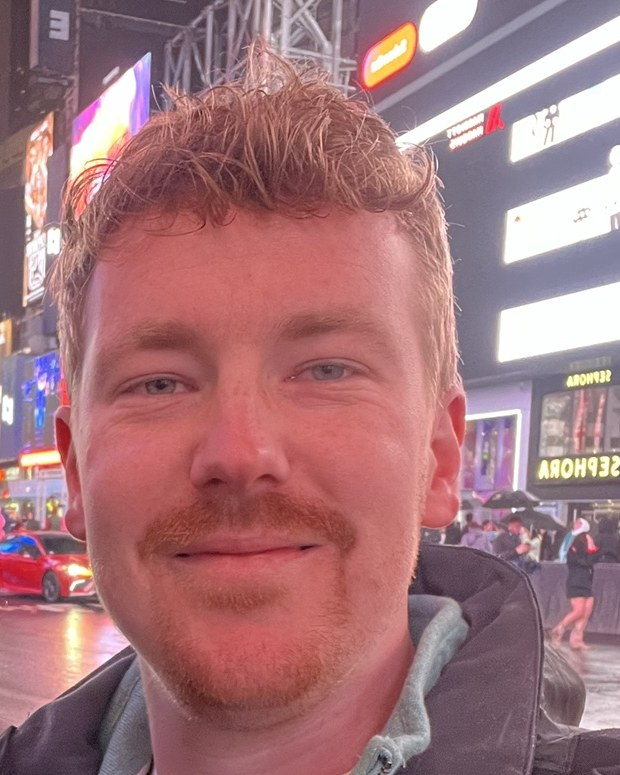
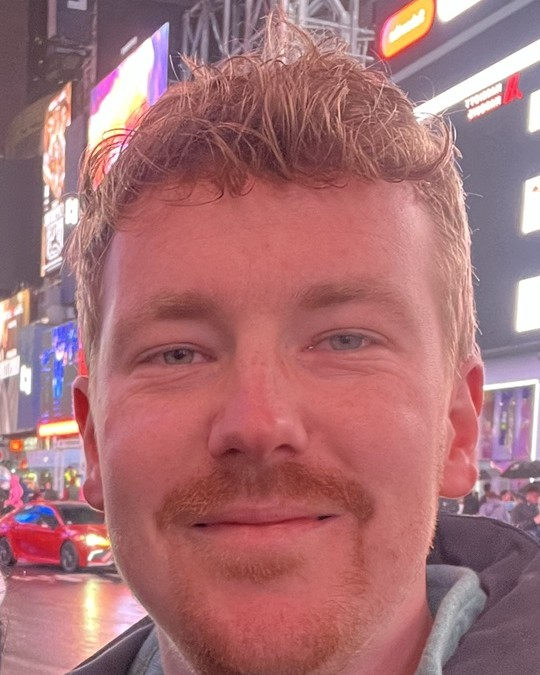
Centre photo crop; small portrait instead of circle on phones
Claude-Session: https://claude.ai/code/session_01TqzmADwAUMjqVKya5mudJi

diff --git a/index.html b/index.html
@@ -55,7 +55,7 @@
 
     <!-- INTRO -->
     <section id="top" class="wrap intro">
-      <img class="intro-photo" src="images/sam.jpg" alt="Samuel Heel" width="740" height="925" />
+      <img class="intro-photo" src="images/sam.jpg" alt="Samuel Heel" width="540" height="675" />
       <h1 style="margin-top:0">I find where the value is in the data, then <em>build</em> the product that captures it.</h1>
       <p class="intro-story">I'm a Senior Product Owner at Angstrom Sports (Entain), where I own the risk and trading automation portfolio behind Entain and BetMGM's US sports markets. Before that I built the company's first in-house risk platform, which replaced third-party tooling and <strong>saves $4m a year</strong>. Along the way I built a UAT tool that cut the time analysts spend testing and releasing products by <strong>40%</strong>, and brought AI into front-end development, increasing delivery by <strong>20%</strong>. I still build models, tools and AI agents whenever that gets us there faster.</p>
       <div class="actions">

diff --git a/styles.css b/styles.css
@@ -947,6 +947,6 @@ main.section .flow-node li { margin: 0 0 4px; color: var(--text-muted); }
 .intro-photo { grid-column: 2; grid-row: 1 / span 3; width: 280px; height: auto; aspect-ratio: 4 / 5; object-fit: cover; border-radius: 2px; border: 1px solid var(--rule); }
 @media (max-width: 900px) {
   .intro { grid-template-columns: 1fr; }
-  .intro-photo { grid-column: 1; grid-row: auto; width: 112px; aspect-ratio: 1; border-radius: 999px; margin-bottom: 24px; }
+  .intro-photo { grid-column: 1; grid-row: auto; width: 128px; aspect-ratio: 4 / 5; border-radius: 6px; margin-bottom: 28px; }
 }
-.intro-photo { object-position: 50% 20%; }
+.intro-photo { object-position: 50% 50%; }
